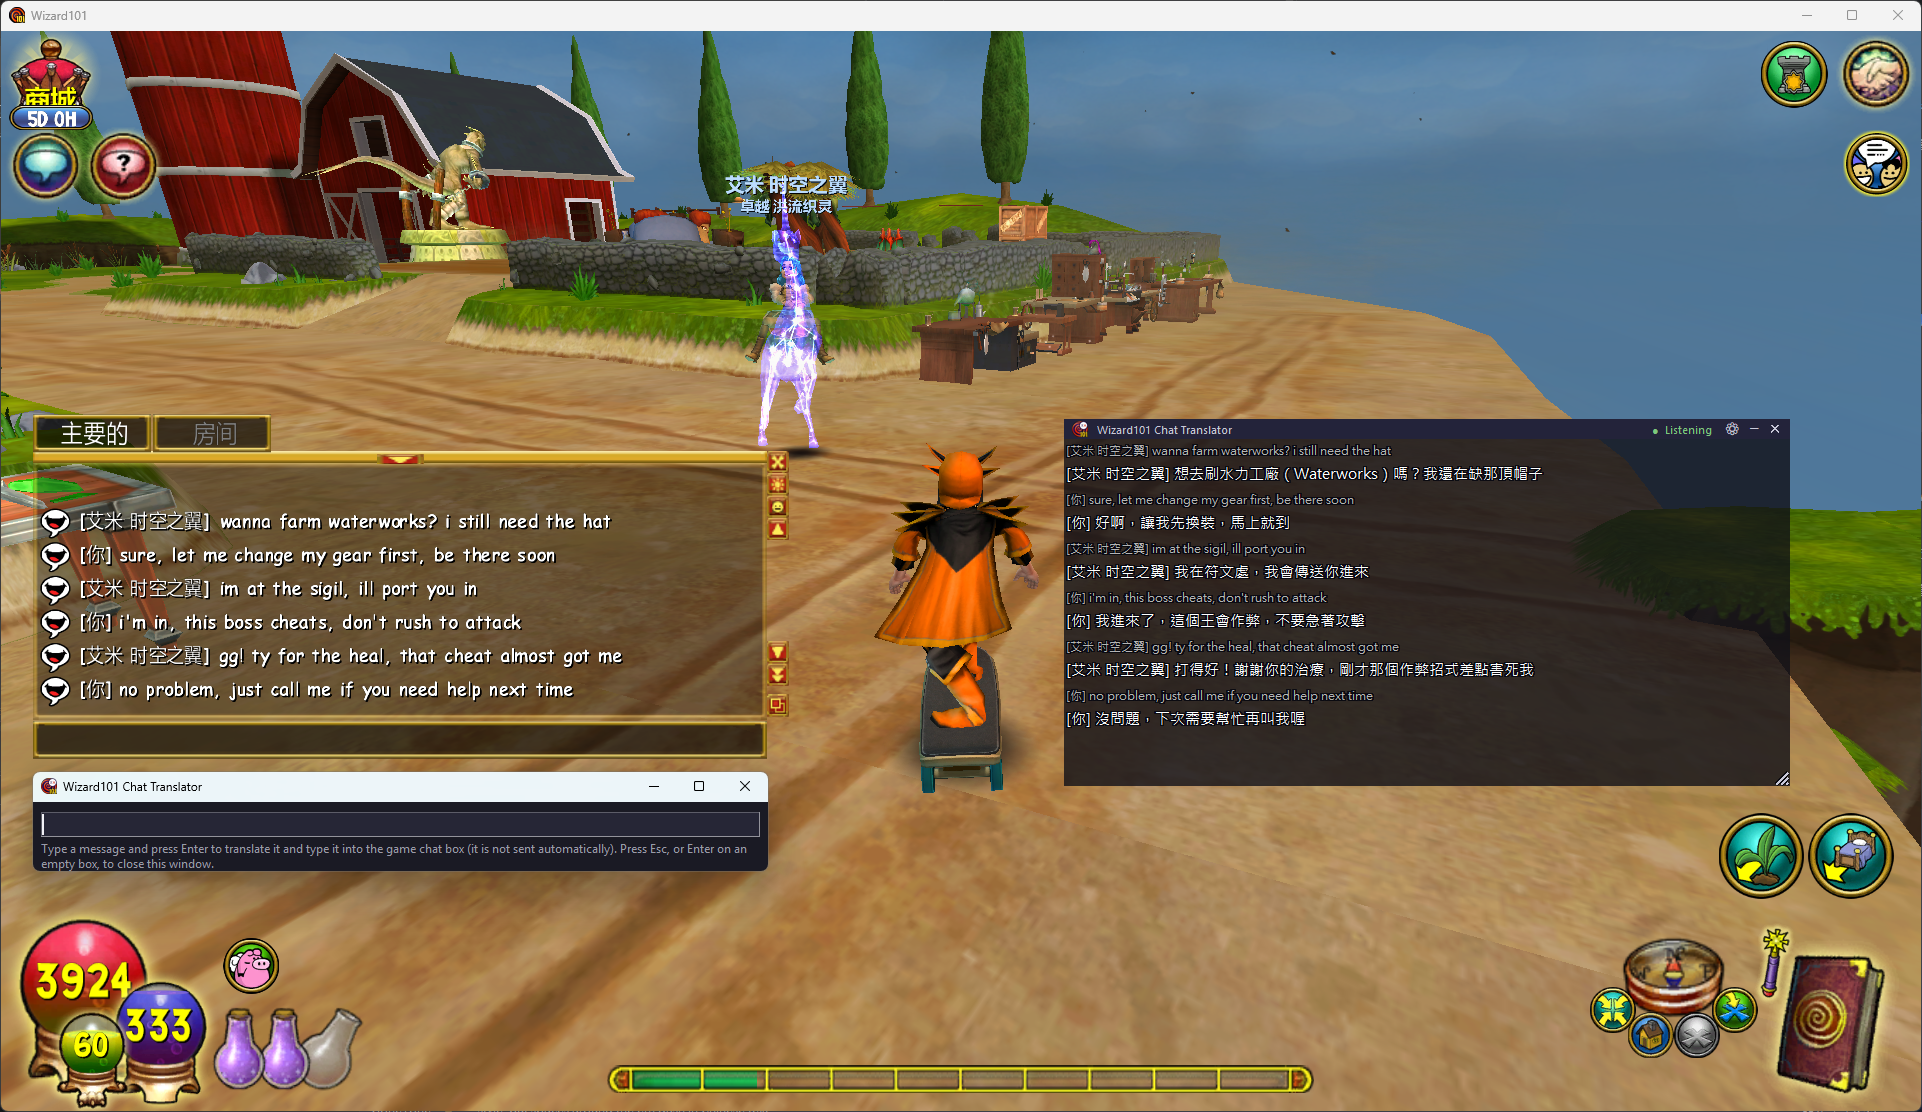
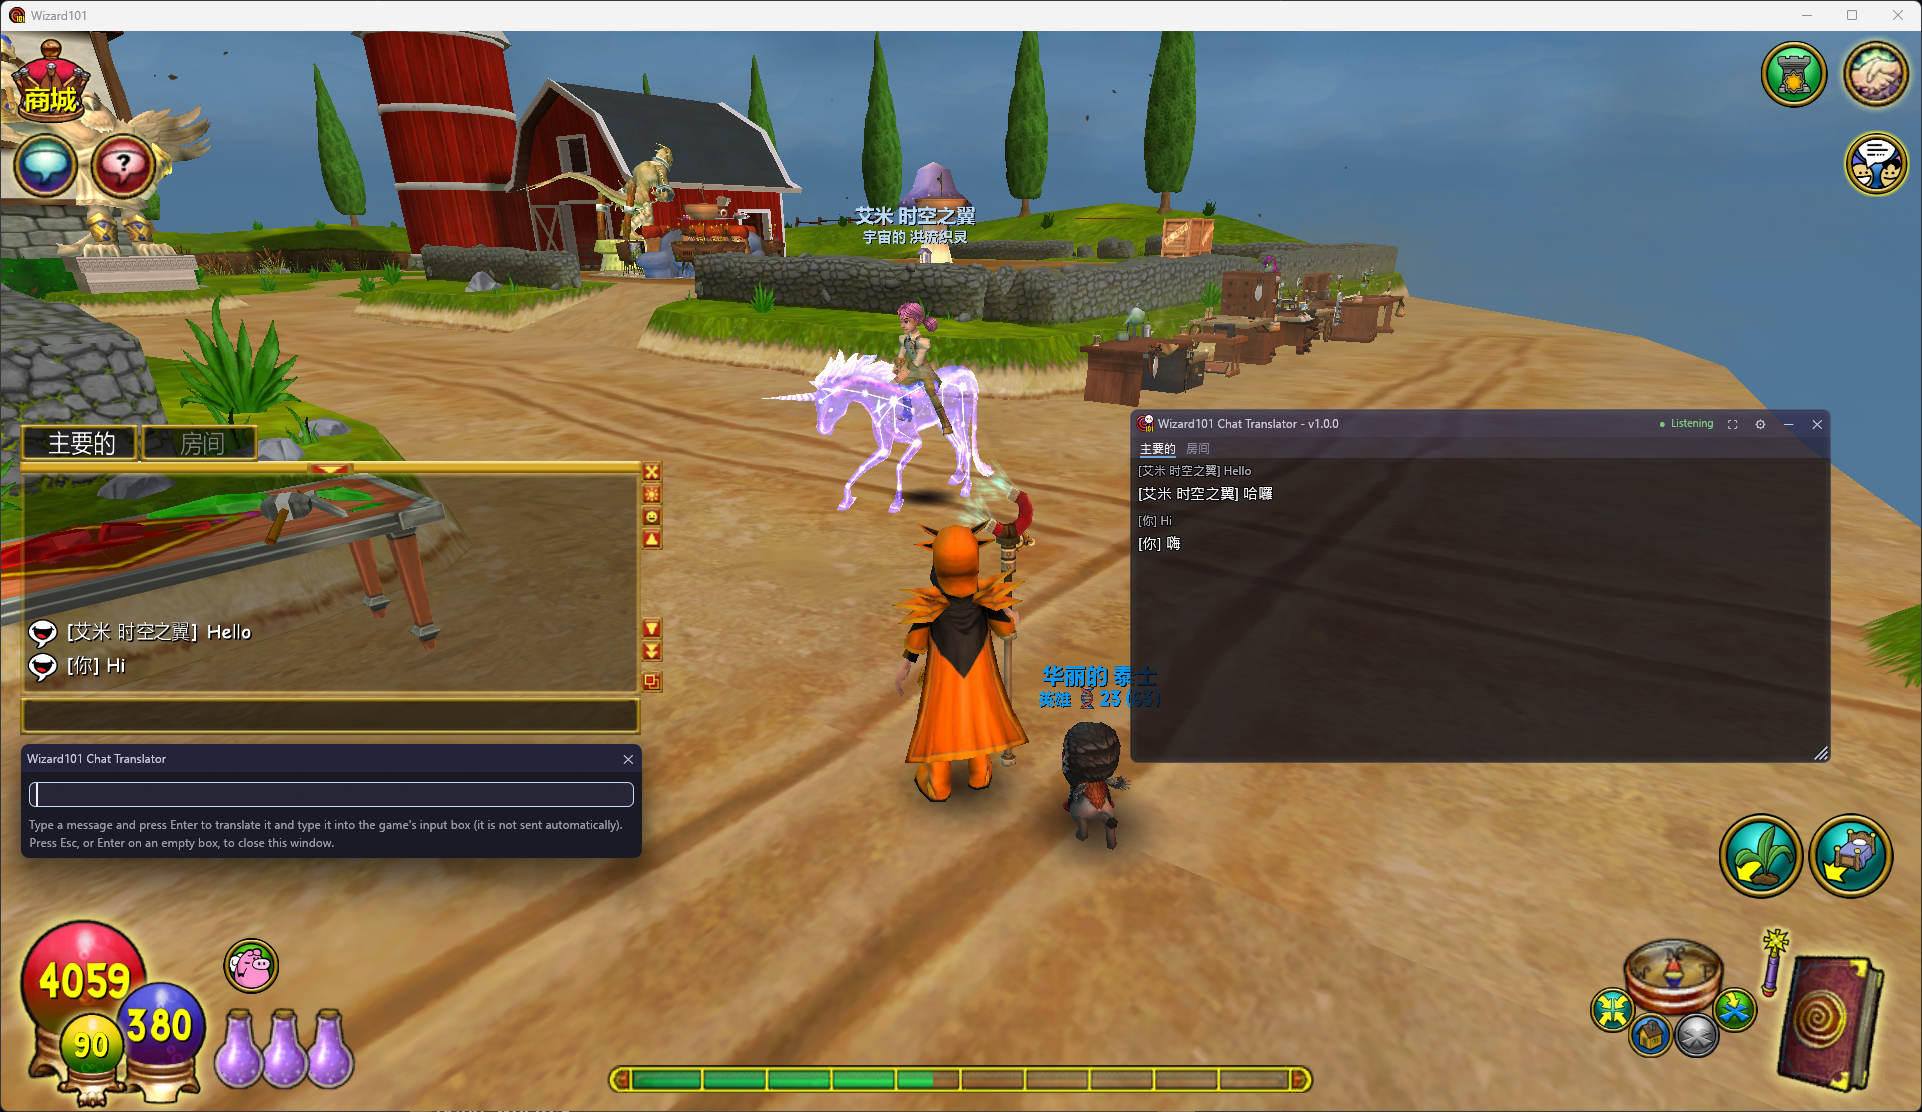
docs(readme): retake the overlay screenshots and add the settings window
Screenshots 1 and 2 now show the Rust overlay and input box; 5 and 6
show the basic and services pages of the settings window.

Claude-Session: https://claude.ai/code/session_012ntWkZA48GqNZdwQnfND39

diff --git a/README.md b/README.md
@@ -118,6 +118,14 @@ Drag a box around any text on screen — NPC dialogue, quest books, item descrip
 
 ![A box drawn around an in-game tip, with the translation card next to it](docs/images/4.png)
 
+Everything is changed in the settings window, and saving applies it right away — interface language, the language messages are translated into, hotkeys and more:
+
+![The basic page of the settings window](docs/images/5.png)
+
+Set up as many translation services as you like — OpenAI, Claude, Gemini or your own OpenAI-compatible server — pick one as the default, or give each feature its own:
+
+![The services page of the settings window, listing several translation services](docs/images/6.png)
+
 ## Known Limitations
 
 - The game's chat whitelist: English words that are not on the whitelist may be filtered by the game itself, which no translation software can get around.

diff --git a/README_ZH-CN.md b/README_ZH-CN.md
@@ -118,6 +118,14 @@ Wizard101 对话翻译助手 —— Wizard101 的聊天对话 AI 翻译软件，
 
 ![框住游戏内的一条提示，旁边是译文卡片](docs/images/4.png)
 
+所有设置都在设置窗口里改，保存立刻生效 —— 界面语言、消息要翻成的语言、热键等等：
+
+![设置窗口的基本设置页](docs/images/5.png)
+
+翻译服务可以创建好几组 —— OpenAI、Claude、Gemini 或自己搭的 OpenAI 兼容服务器 —— 选一组当默认，也能让各功能各用不同的一组：
+
+![设置窗口的服务页，列出多组翻译服务](docs/images/6.png)
+
 ## 已知限制
 
 - 游戏聊天白名单：非白名单英文词可能被游戏自动过滤，任何翻译软件都绕不过。

diff --git a/README_ZH-TW.md b/README_ZH-TW.md
@@ -118,6 +118,14 @@ Wizard101 對話翻譯助手 —— Wizard101 的聊天對話 AI 翻譯軟體，
 
 ![框住遊戲內的一則提示，旁邊是譯文卡片](docs/images/4.png)
 
+所有設定都在設定視窗裡改，存檔立刻生效 —— 介面語言、訊息要翻成的語言、熱鍵等等：
+
+![設定視窗的基本設定頁](docs/images/5.png)
+
+翻譯服務可以建立好幾組 —— OpenAI、Claude、Gemini 或自己架的 OpenAI 相容伺服器 —— 選一組當預設，也能讓各功能各用不同的一組：
+
+![設定視窗的服務頁，列出多組翻譯服務](docs/images/6.png)
+
 ## 已知限制
 
 - 遊戲聊天白名單：非白名單英文詞可能被遊戲自動過濾，任何翻譯軟體都繞不過。
